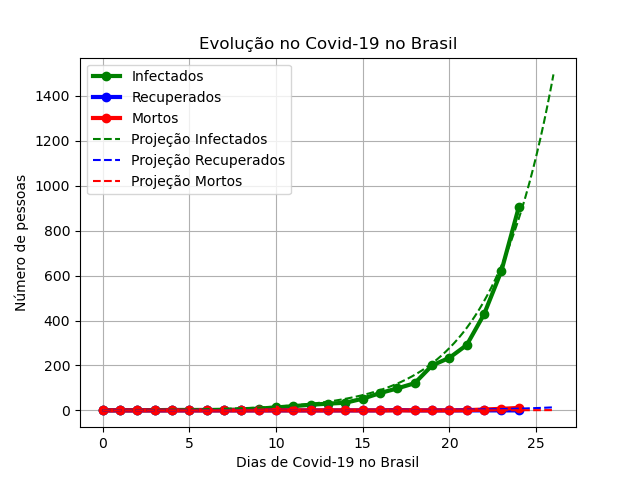
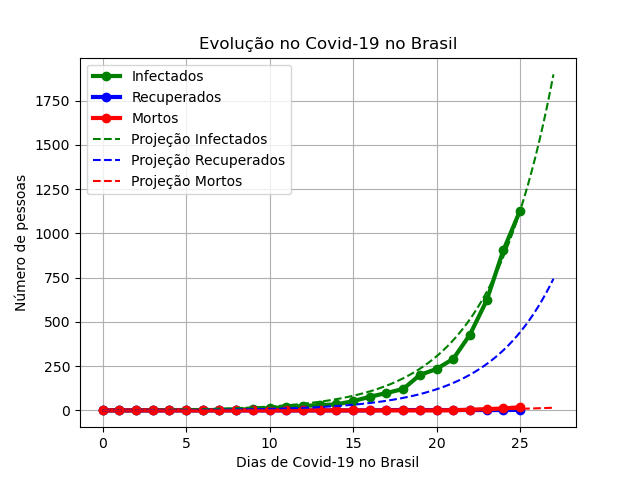
Update corona

diff --git a/covid-19.html b/covid-19.html
@@ -102,12 +102,12 @@
     <div class="main">
         <h1> Acompanhe a evolução do Covid-19 no Brasil </h1>
 
-        <p>Atualização: 20/03/2020</p>
+        <p>Atualização: 21/03/2020</p>
         <p> A pandemia de coronavírus está evoluindo ao redor do mundo. No Brasil os casos estão aumentando a cada dia. Medidas de contenção estão sendo empregadas para evitar que o número de infectados aumente. Veja como está a evolução no gráfico a seguir.</p>
         
         <a class="aulaImg"><img class="aula" src="images/covid19.png"></a>
 
-        <p> A projeção é feita através do modelo SIR. Se você quer entender como uma epidemia evolui e a entender como os cientistas projetam possíveis cenários da evolução de uma pandemia, veja o vídeo que preparei abaixo.</p>
+        <p> A projeção é feita através do modelo SIR. Eu atualizei o modelo, pois o número de casos reportados oficialmente está obviamente defasado. Não faz sentido o número de recuperados reportados com o número de mortes. Por isso, atualizei o modelo para demonstrar que, na verdade, muitas pessoas já se recuperaram no Brasil, utilizando valores referentes ao coronavirus no mundo. Se você quer entender como uma epidemia evolui e a entender como os cientistas projetam possíveis cenários da evolução de uma pandemia, veja o vídeo que preparei abaixo.</p>
 
         <a class="aulaImg" href="https://youtu.be/XaNvUEX9Kbc"><img class="aula" src="images/CoronavirusSIR.png"></a>
         <b> Clique na imagem para abrir o vídeo.</b>
